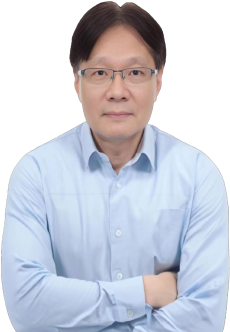
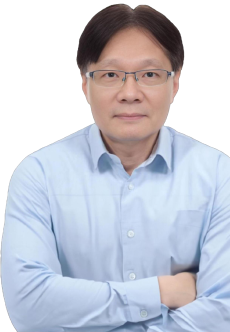
team updated

diff --git a/css/team-old-2.css b/css/team-old-2.css
@@ -589,8 +589,14 @@ flex-direction: column;
     background: transparent;
     border-top: none;
     bottom: 0;
-    right: 0;
+    right: -30px;
     z-index:2;
+}
+
+@media (max-width: 767.5px){
+    .team-image{
+        right: 0;
+    }
 }
 
 .photo-container{
